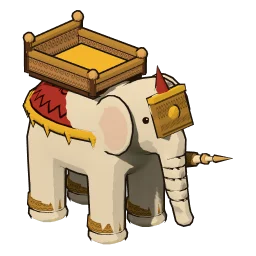
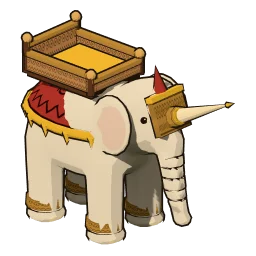
Voi trắng một ngà: ngà mọc giữa trán
Claude-Session: https://claude.ai/code/session_01Wn2t7DpxkwJDdxMXUkf6e8

Changed region(s): [[0.0625, 0.0312, 0.9062, 0.9688]]

diff --git a/src/render/beasts.ts b/src/render/beasts.ts
@@ -255,7 +255,7 @@ export interface VoiTranLook {
   flag?: number;
   /** Màu da voi (voi trắng của Bà Triệu); bỏ trống là da voi thường. */
   skin?: number;
-  /** Chỉ một ngà (bên phải), như voi trắng một ngà của Bà Triệu. */
+  /** Một ngà mọc giữa trán (thay cho hai ngà hai bên), như voi trắng một ngà của Bà Triệu. */
   motNga?: boolean;
 }
 
@@ -335,9 +335,21 @@ function drawVoiTran(r: Rig, look: VoiTranLook): void {
       p.sphere(0.034, C.bronzeLight, x, 1.09 + h, z, [1, 1, 1], 6);
     }
     p.box(0.42, 0.05, 0.5, look.trim, 0, CUSHION_TOP - 0.025, -0.08);
-    // Ngà dài bọc đồng: khâu đồng ở gốc, dải đồng hoa văn, vòng đồng, mũi bịt đồng nhọn.
-    for (const s of look.motNga ? [1] : [-1, 1]) {
-      r.local('qHead', [s * 0.115, 0.6, 0.6], [1.3, 0, -s * 0.12], (t) => {
+    // Ngà dài bọc đồng: khâu đồng ở gốc, dải đồng hoa văn, vòng đồng, mũi bịt đồng nhọn. Voi một ngà (voi trắng của
+    // Bà Triệu): một ngà mọc giữa trán, xuyên giữa giáp trán, chĩa ra trước hơi vểnh lên.
+    const nga: [V3, V3][] = look.motNga
+      ? [[[0, 1.0, 0.74], [1.12, 0, 0]]]
+      : [-1, 1].map((s): [V3, V3] => [[s * 0.115, 0.6, 0.6], [1.3, 0, -s * 0.12]]);
+    for (const [at, rot] of nga) {
+      r.local('qHead', at, rot, (t) => {
+        if (look.motNga) {
+          // Ngà giữa trán: một khối ngà trắng thon dài lộ gần hết, khâu đồng viền vàng ở gốc, mũi bịt vàng nhỏ.
+          t.plain.cone(0.058, 0.62, C.cream, 0, 0.31, 0, undefined, 8);
+          t.plain.cyl(0.066, 0.068, 0.07, C.bronze, 0, 0.03, 0, undefined, 8);
+          t.band.cyl(0.06, 0.062, 0.03, C.gold, 0, 0.075, 0, undefined, 8);
+          t.plain.cone(0.014, 0.07, C.gold, 0, 0.6, 0, undefined, 6);
+          return;
+        }
         t.plain.cone(0.05, 0.5, C.cream, 0, 0.25, 0, undefined, 7);
         t.plain.cyl(0.06, 0.062, 0.09, C.bronze, 0, 0.045, 0, undefined, 8);
         t.band.cyl(0.042, 0.05, 0.1, C.bronze, 0, 0.16, 0, undefined, 8);
@@ -349,7 +361,8 @@ function drawVoiTran(r: Rig, look: VoiTranLook): void {
     const head = r.on('qHead');
     head.band.box(0.3, 0.26, 0.05, C.bronze, 0, 1.02, 0.7, [-0.35, 0, 0]);
     head.plain.box(0.32, 0.035, 0.06, C.gold, 0, 1.15, 0.66, [-0.35, 0, 0]);
-    head.plain.sphere(0.05, C.gold, 0, 1.03, 0.725, [1, 1, 0.55], 8);
+    // Voi một ngà: ngà giữa trán thay cho núm vàng.
+    if (!look.motNga) head.plain.sphere(0.05, C.gold, 0, 1.03, 0.725, [1, 1, 0.55], 8);
     head.plain.cone(0.05, 0.2, C.red, 0, 1.24, 0.6, [-0.25, 0, 0], 6);
     // Vòng đồng cổ chân.
     for (const [b, x, z] of [

diff --git a/src/render/anhDoDau.ts b/src/render/anhDoDau.ts
@@ -12,7 +12,7 @@ export const ANH_DO_DAU: Record<string, string> = {
   'coLoa-vuKhi': 'b9bebcf5',
   'nuiNua-baoVat': '4e7c2628',
   'nuiNua-giap': '3cfd5925',
-  'nuiNua-phucSuc': '6996b84b',
+  'nuiNua-phucSuc': '71df23ba',
   'nuiNua-vuKhi': 'd4669ea9',
   'phuDong-baoVat': '0a7f7cb6',
   'phuDong-giap': '7cb747bb',

diff --git a/CLAUDE.md b/CLAUDE.md
@@ -18,7 +18,7 @@ Game xây dựng chiến thuật chạy trên trình duyệt điện thoại (Ty
   - `bien.ts` lo biển Đông phía đông nam (bờ chéo như Bắc Bộ quanh x + z = `BIEN_CHEO`, lồi lõm theo `bienNhieu`; `bienDo` là khoảng cách tới mép bãi cát: âm là đất, tới `BAI_CAT` là bãi, rồi biển, `isSea`, `isWater`; `bienDiem` cho điểm theo bờ; góc đông nam sau ngã ba là cửa biển, sông Đà đổ ra `CUA_BIEN`; bãi cát không chạm khoảnh nào), hai quần đảo Hoàng Sa, Trường Sa theo hướng ngoài đời (`QUAN_DAO`: mỗi quần đảo một đảo chính 20 × 20 ô đất theo ô, `DAO_CHINH`, `daoChinh`, `daoGoc`, và các đảo nhỏ tròn quanh đó; ngư trường quanh quần đảo; `onIsland`) và đường thuyền khơi (`benDock`, `riverOf`, `seaRoute`: bến đầu ra Hoàng Sa, bến thứ hai ra Trường Sa, `seaIndex`, `boatsAt`). Thủy binh Triệu vào từ biển: lúc trinh sát báo, `upcomingBoats` (`game.ts`) cho chỗ từng thuyền sẽ hiện ra khi trận mở (`plannedBoats`, `boatLayout`, `battleSeed` ở `battle.ts`, dùng chung với `startBattle`), trận không đổi; `chuong4.test.ts` canh khớp chỗ. Bến thuyền khơi (`benKhoi` ở `defs.ts`, Điện 8, cấp 2, 3 ở Điện 9, 10, sát sông) làm ra vỏ ốc và cá biển (`CA_BIEN_PER_MIN`, `fishOf` ở `game.ts` đỡ gạo ăn như cá làng chài); người chơi mô phỏng có dựng. `bien.test.ts` canh.
   - `dao.ts` lo Điện 10 điều quân ra đóng đảo (`docs/thiet-ke.md` mục Kế hoạch: Điện 10 điều quân ra đóng đảo; PR 1 luật, bản lưu 28): `state.dao` mỗi quần đảo một `DonDao` (đồn ở ngoài lưới nên không vào `state.buildings`). Bến thuyền khơi cấp 3 đóng thuyền chiến cho quần đảo bến ấy đánh cá (`benOf`, `canThuyen`, `startThuyen` ở `xay.ts`, `THUYEN_CHIEN` ở `defs.ts`); đồn đảo ba cấp dựng, nâng bằng tốp thợ (`canDon`, `startDon`, `PhanViec.dao` mã việc âm `daoJobId`, `DON_DAO`); chỗ đồn trên đảo chính `donDaoGoc`, cổng `donDaoHuong`, `donDaoCong`, bến ván thẳng trước cổng `daoBen`, chỗ rẽ vào bến không qua đảo nhỏ `daoVao`, ô dưới cầu ván `inDaoLoi`, đường thuyền `warRoute` (`bien.ts`). Lính đóng: người chơi đặt số muốn đóng (`setDaoLinh`, theo chỗ quân), thuyền tự chạy chuyến 10 chỗ (`advanceDao` trong `tick` và `applyOffline`, chuyến tính bằng thời gian còn lại; đang có trận thì không rời bến); lính ra đảo rời `state.troops`, về bến thì vào lại, vẫn ăn gạo (`daoArmy` trong `foodPerMinute`). Đồn đủ `giuCho` chỗ quân thì giữ biển (`giuBien`): ngư trường thêm vỏ ốc, cá (`nguTruongBonus` trong `outputIn`, `fishIn`; cộng trước khi nhân hệ số gánh về kho), lửa hiệu báo thủy quân Hán sớm (`luaHieu` trong `updateRaid`), lâu thuyền vào tới sông đã sứt máu (`chanThuyen`, `BattleOpts.chan`). Nhiệm vụ 63–66, Lạc hầu gợi ý (`nextDaoHint`), đố sử bốc câu Biển đảo trước (`main.ts`). Người chơi mô phỏng từ Điện 10 nâng bến lên cấp 3, đóng thuyền, dựng đồn (khoản "Đóng đảo" ở `kinhTe.ts`). PR 2 vẽ đồn đảo, thuyền chiến (xem phần `src/render/`). PR 3 giặc Hán đánh đảo (bản lưu 29: `DonDao.hu`, `dot`, `thang`, `sau`, `tran`): từ khi Mã Viện sang, đồn còn nguyên có lính thì giặc tới theo lịch (`advanceGiacDao` trong `tick`: đợt đầu 10 phút, rồi 40 phút, hai đảo so le, đồng hồ đứng khi có trận hay đang xem lại, lúc vắng không có; báo trước `baoDao`; số ở `DAO_GIAC`, `daoForces`, `daoHpScale`, `daoCua` ở `defs.ts`), trận cầm cự 60 giây không tướng tự đánh trọn (`danhDao`, `setupDao` dựng `FieldSetup` từ `TranDao` nên xem lại ra y hệt; nền và bố cục `dao`; lính cộng theo cấp đồn, binh khí, Lê Chân qua `FieldSetup.nuMoi`). Thắng thì được gỗ, sắt; thua thì lính đảo chết hết, đồn hư (`giuBien` 0, không chở lính, không giặc) tới khi sửa (`suaDon`, `suaDonCost`); nhiệm vụ 67 (`giuDao`, `daoGiuDuoc`). `dao.test.ts` canh, kể cả độ khó theo chuẩn và bản lưu 29.
   - Dã ngoại (`docs/thiet-ke.md` mục Kế hoạch: dã ngoại; bản lưu 30, map 6 Núi Nưa bản lưu 31, map 7 Đầm Dạ Trạch bản lưu 32, map 8 Núi Vệ bản lưu 33, map 9 Bạch Đằng bản lưu 34, map 10 sông Như Nguyệt bản lưu 35): mười map mở kiểu Võ Lâm 2 (map cuối `DA_MAP_CUOI` không có cổng sau; boss map 6–10 rơi phẩm theo `DaMapDef.bossRoi`; Lạc hầu báo mỗi map mới theo `vi.daNgoai.hintMap`) (`DA_MAP` ở `defs.ts`: nền, cấp quái, cổng mở theo cấp chung, năm loại quái theo khu, boss, của mỗi con). `daNgoaiMap.ts` lo bố cục (`boCuc`: trại, năm khu, khu boss, hai cổng, lối đi, vật cản gieo theo hạt giống; `timDuong` A* trên lưới ô, `truotCan`, `khuTai`). `daNgoaiTran.ts` lo trận trên map (chế độ `daNgoai` của `battle.ts`, `Battle.da`, `Fighter.nha`; tướng thứ ba ở `Battle.heroThem`): `taoTranDa`, `stepDa` (quái đứng chờ, đuổi, quá `xich` thì về hồi máu, chết thì mọc lại; Tự đánh tìm quái trong khu đang đứng, không nhắm boss, tự dùng kỹ năng, máu đội thấp thì nghỉ `da.nghi`; tướng ngã đứng dậy khi yên, cả đội ngã về trại), `chamMap` (chạm quái, cổng, đất), `capBonus`, `sucQuai`. `daNgoai.ts` lo phần lưu `GameState.daNgoai` (cấp chung, kinh nghiệm, map, chỗ đứng, đội, Tự đánh, giờ boss mọc lại): `vaoDa`, `moMap`, `capNhatDa` (thưởng, đồ rơi `daQuai`/`daBoss` không vượt chương đang chơi `chuongRoi`, boss chờ `DA_BOSS_MS`), `quaCong`, `chonMap`, `datDoi`, treo máy bằng công thức (`tiSuc`, `nhipTreo`, `tichTreo` khi không xem map, `treoVang` trong `applyOffline`, trần `DA_TREO.tran`). Cấp chung chỉ cộng trên map (`battle.bonus`), không khóa, không làm tướng kiệt sức (`tuongSetup` ở `son.ts`). `daNgoai.test.ts` canh.
-  - Tướng dã ngoại (`docs/thiet-ke.md` mục Kế hoạch: năm tướng mới; đã làm Bà Triệu, còn Triệu Quang Phục, Mai Thúc Loan, Ngô Quyền, Lý Thường Kiệt): mỗi map 6–10 một tướng (`TUONG_DA_IDS`, `TUONG_DA_MAP` ở `defs.ts`), về khi hạ boss map ấy lần đầu (`tuongDaVe` ở `tuongDa.ts`: `daNgoai.boss[map − 1] > 0`, không lên bản lưu; đoạn truyện kể một lần), chỉ đánh ở dã ngoại: có trong `HERO_KINDS` nhưng không trong `TUONG_IDS` (không doanh), `heroesFor` không chọn, bản chụp Đấu thành chỉ nhận tướng truyện `HERO_TRUYEN` (`battle.ts`). Bộ đồ của tướng dã ngoại (`BO_DA`) chỉ rơi ở map của tướng ấy khi tướng đã về (`roiDo(..., bo)`, `boMap` ở `daNgoai.ts`), ai mặc cũng được, máy chủ nhận ở chương 5. Bà Triệu: voi trắng một ngà (`makeBaTrieu`, `VOI_TRANG` ở `heroes.ts`; `VoiTranLook.skin`, `motNga` ở `beasts.ts`), Chém cá kình (`CA_KINH`, nhánh `chemCaKinh` của `useSkill`, sự kiện `chem` vẽ ở `battleView.ts`), bộ Núi Nưa, đứng chầu chỗ 3 sân Điện. `tuongMoi.test.ts` canh; chụp `node scripts/chup-nhan-vat.mjs tuongDa`, cảnh `ba-trieu`, `ba-trieu-tui`, `ba-trieu-dien`, `ba-trieu-truyen`.
+  - Tướng dã ngoại (`docs/thiet-ke.md` mục Kế hoạch: năm tướng mới; đã làm Bà Triệu, còn Triệu Quang Phục, Mai Thúc Loan, Ngô Quyền, Lý Thường Kiệt): mỗi map 6–10 một tướng (`TUONG_DA_IDS`, `TUONG_DA_MAP` ở `defs.ts`), về khi hạ boss map ấy lần đầu (`tuongDaVe` ở `tuongDa.ts`: `daNgoai.boss[map − 1] > 0`, không lên bản lưu; đoạn truyện kể một lần), chỉ đánh ở dã ngoại: có trong `HERO_KINDS` nhưng không trong `TUONG_IDS` (không doanh), `heroesFor` không chọn, bản chụp Đấu thành chỉ nhận tướng truyện `HERO_TRUYEN` (`battle.ts`). Bộ đồ của tướng dã ngoại (`BO_DA`) chỉ rơi ở map của tướng ấy khi tướng đã về (`roiDo(..., bo)`, `boMap` ở `daNgoai.ts`), ai mặc cũng được, máy chủ nhận ở chương 5. Bà Triệu: voi trắng một ngà mọc giữa trán (`makeBaTrieu`, `VOI_TRANG` ở `heroes.ts`; `VoiTranLook.skin`, `motNga` ở `beasts.ts`), Chém cá kình (`CA_KINH`, nhánh `chemCaKinh` của `useSkill`, sự kiện `chem` vẽ ở `battleView.ts`), bộ Núi Nưa, đứng chầu chỗ 3 sân Điện. `tuongMoi.test.ts` canh; chụp `node scripts/chup-nhan-vat.mjs tuongDa`, cảnh `ba-trieu`, `ba-trieu-tui`, `ba-trieu-dien`, `ba-trieu-truyen`.
   - `ngayDem.ts` lo ngày đêm ở kinh đô (`docs/thiet-ke.md` mục Ngày đêm): chỉ để nhìn, giờ suy từ đồng hồ chơi (`NGAY_MS` 12 phút, mốc buổi `BUOI_MS` ở `defs.ts`; đồng hồ 0 là sáng sớm), `troiLuc` cho trọng số bốn buổi (ngày, chiều tà, đêm, rạng đông), `doToi` cho độ tối. Không luật nào đọc tới, bản lưu không đổi. `ngayDem.test.ts` canh.
   - `vanChuyen.ts` lo dân gánh hàng về kho (`docs/thiet-ke.md` mục Dân gánh hàng về kho): mỗi công trình có chỗ làm (trừ bếp) gánh của làm ra về nơi nhận gần nhất (Điện, kho còn nguyên; nguyên liệu Tết `GANH_BEP` tới bếp hay kho), quãng đường là Dijkstra nhiều nguồn trên lưới chi phí (đường đi, cầu 0,5; lũy, thành còn nguyên chắn hẳn, chỉ qua cổng thành, chỗ hở hay đoạn hư; sông, rừng chưa phát, móng khác không qua), xa quá `GANH.gan` ô thì hệ số giảm tới `GANH.san` (`heSoTheo`, `heSoGanh`; `heSoMap` tính một lần cho cả kinh đô, ghi nhớ theo dấu vết công trình). `outputIn`, `fishIn`, `fishPerMinute` (`game.ts`) và `bakeRates` (`tet.ts`) nhân hệ số; bản lưu không đổi. `duongGanh` cho tuyến ô (phần vẽ người gánh dùng chung), `duongTu` cho tuyến từ móng bất kỳ tới kho, bếp hay riêng Điện (thợ vác vật liệu, người bếp), `ganhPreview` cho thanh đặt công trình, `vungGanh` cho vùng gánh đủ 100% để tô (đặt, dời công trình; chọn kho, Điện, bếp; Dijkstra có ngưỡng `truong(..., tran)`, lưới bỏ công trình đang dời ghi nhớ ở `stateBo`), `needsGanhHint` cho lời Lạc hầu một lần. `giapDuong` nhắc lúc đặt công trình nhiều ô chưa giáp đường (chỉ nhắc). `vanChuyen.test.ts` canh, kể cả bốn mẫu kinh đô có đường mẫu thì công trình nào cũng có lối gánh (mẫu không canh sản lượng) và vùng tô khớp `ganhPreview`. Áp mẫu kinh đô trải đường đất theo đường của mẫu (`mauDuong`, `MauPlan.duong` ở `mau.ts`; không ở `mauSlots` nên kinh đô máy Đấu thành không có đường), `sapxep.test.ts` canh đường mẫu thẳng, nối mọi công trình.
   - `manVao.ts` tóm tắt bản lưu cho màn hình vào game (`tomTat`: game mới hay chơi tiếp, chương `chapterOf`, cấp Điện, dân, đã vắng bao lâu, đã hết truyện); `manVao.test.ts` canh.

diff --git a/docs/thiet-ke.md b/docs/thiet-ke.md
@@ -3934,7 +3934,7 @@ Kỹ năng (dự kiến):
 ### Thứ tự làm (đề xuất: mỗi tướng một lát cắt chạy được)
 
 1. **PR 0**: tài liệu này (PR nháp, chờ duyệt).
-2. **PR 1** (đã làm): phần chung (tướng về khi hạ boss, chọn đội, đứng chầu, không lên bản lưu) và trọn Bà Triệu: luật (`TUONG_DA_IDS`, `TUONG_DA_MAP`, `BA_TRIEU`, `CA_KINH` ở `defs.ts`; `tuongDa.ts`), Chém cá kình (`useSkill` ở `battle.ts`, tầm tự dùng ở `daNgoaiTran.ts`), đoạn truyện `baTrieu`, dáng (`makeBaTrieu`, `VOI_TRANG`, `giapVayDong` ở `heroes.ts`; voi trận nhận màu da và một ngà: `VoiTranLook.skin`, `motNga`), vẽ kỹ năng (`chemCaKinh` ở `battleView.ts`), bộ Núi Nưa (4 món, ảnh, `guomNuiNua`, `tramVang`), `tuongMoi.test.ts`, nhóm chụp `node scripts/chup-nhan-vat.mjs tuongDa`, cảnh chụp `ba-trieu`, `ba-trieu-tui`, `ba-trieu-dien`, `ba-trieu-truyen`.
+2. **PR 1** (đã làm): phần chung (tướng về khi hạ boss, chọn đội, đứng chầu, không lên bản lưu) và trọn Bà Triệu: luật (`TUONG_DA_IDS`, `TUONG_DA_MAP`, `BA_TRIEU`, `CA_KINH` ở `defs.ts`; `tuongDa.ts`), Chém cá kình (`useSkill` ở `battle.ts`, tầm tự dùng ở `daNgoaiTran.ts`), đoạn truyện `baTrieu`, dáng (`makeBaTrieu`, `VOI_TRANG`, `giapVayDong` ở `heroes.ts`; voi trận nhận màu da và một ngà mọc giữa trán thay hai ngà: `VoiTranLook.skin`, `motNga`), vẽ kỹ năng (`chemCaKinh` ở `battleView.ts`), bộ Núi Nưa (4 món, ảnh, `guomNuiNua`, `tramVang`), `tuongMoi.test.ts`, nhóm chụp `node scripts/chup-nhan-vat.mjs tuongDa`, cảnh chụp `ba-trieu`, `ba-trieu-tui`, `ba-trieu-dien`, `ba-trieu-truyen`.
 3. **PR 2**: Triệu Quang Phục và bộ Dạ Trạch.
 4. **PR 3**: Mai Thúc Loan và bộ Vạn An.
 5. **PR 4**: Ngô Quyền và bộ Bạch Đằng.
